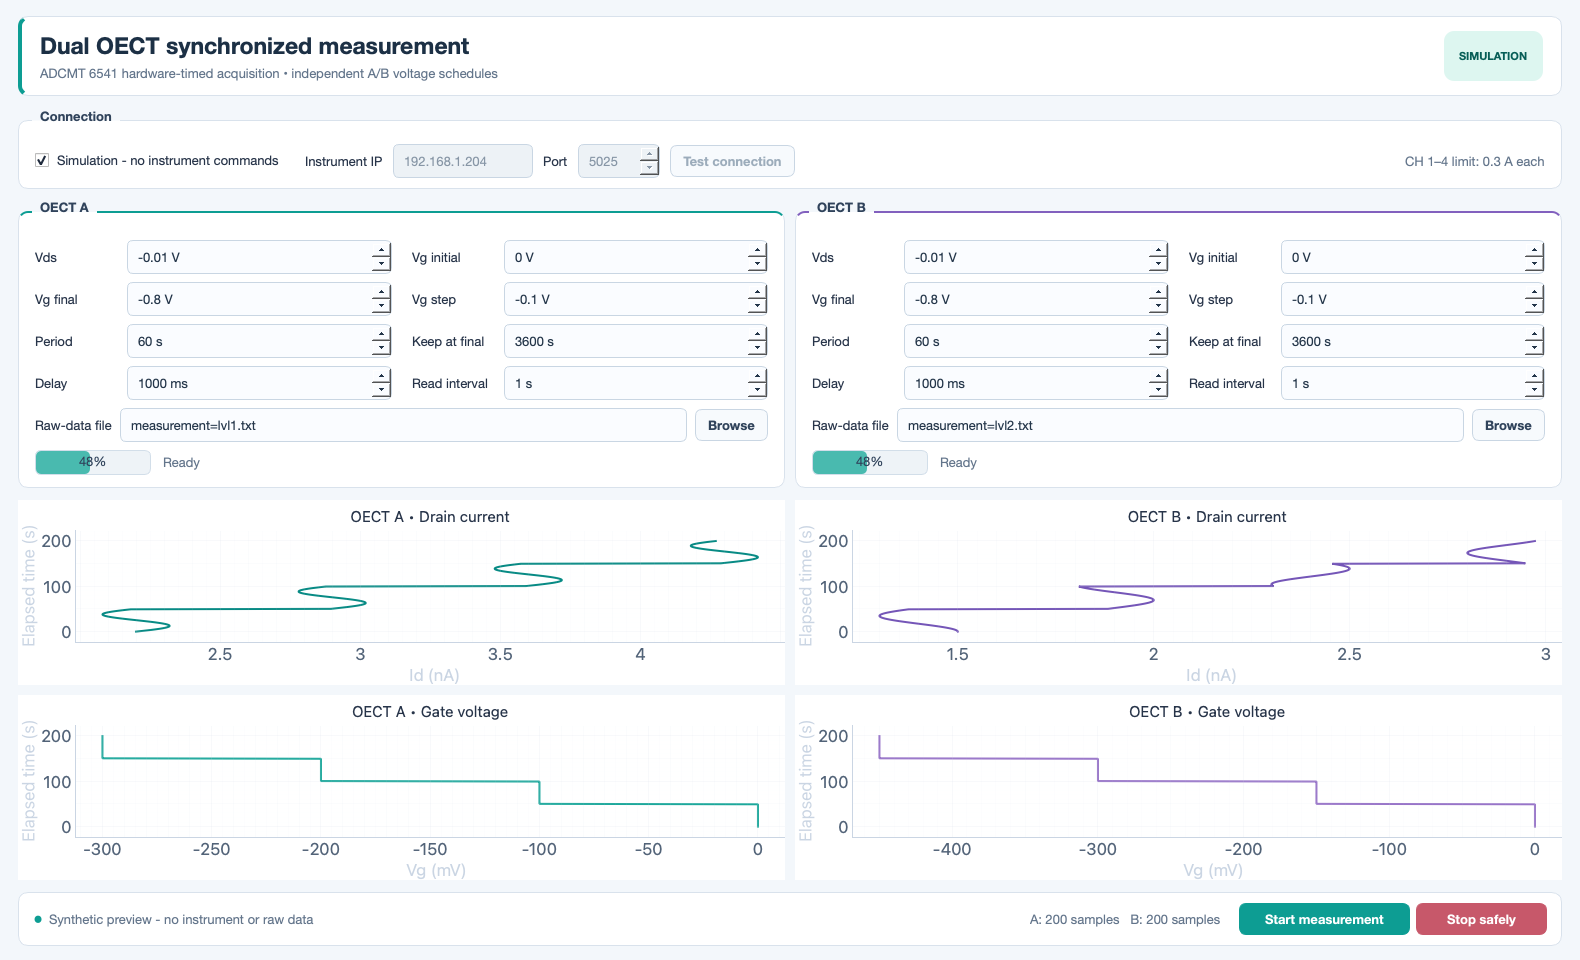
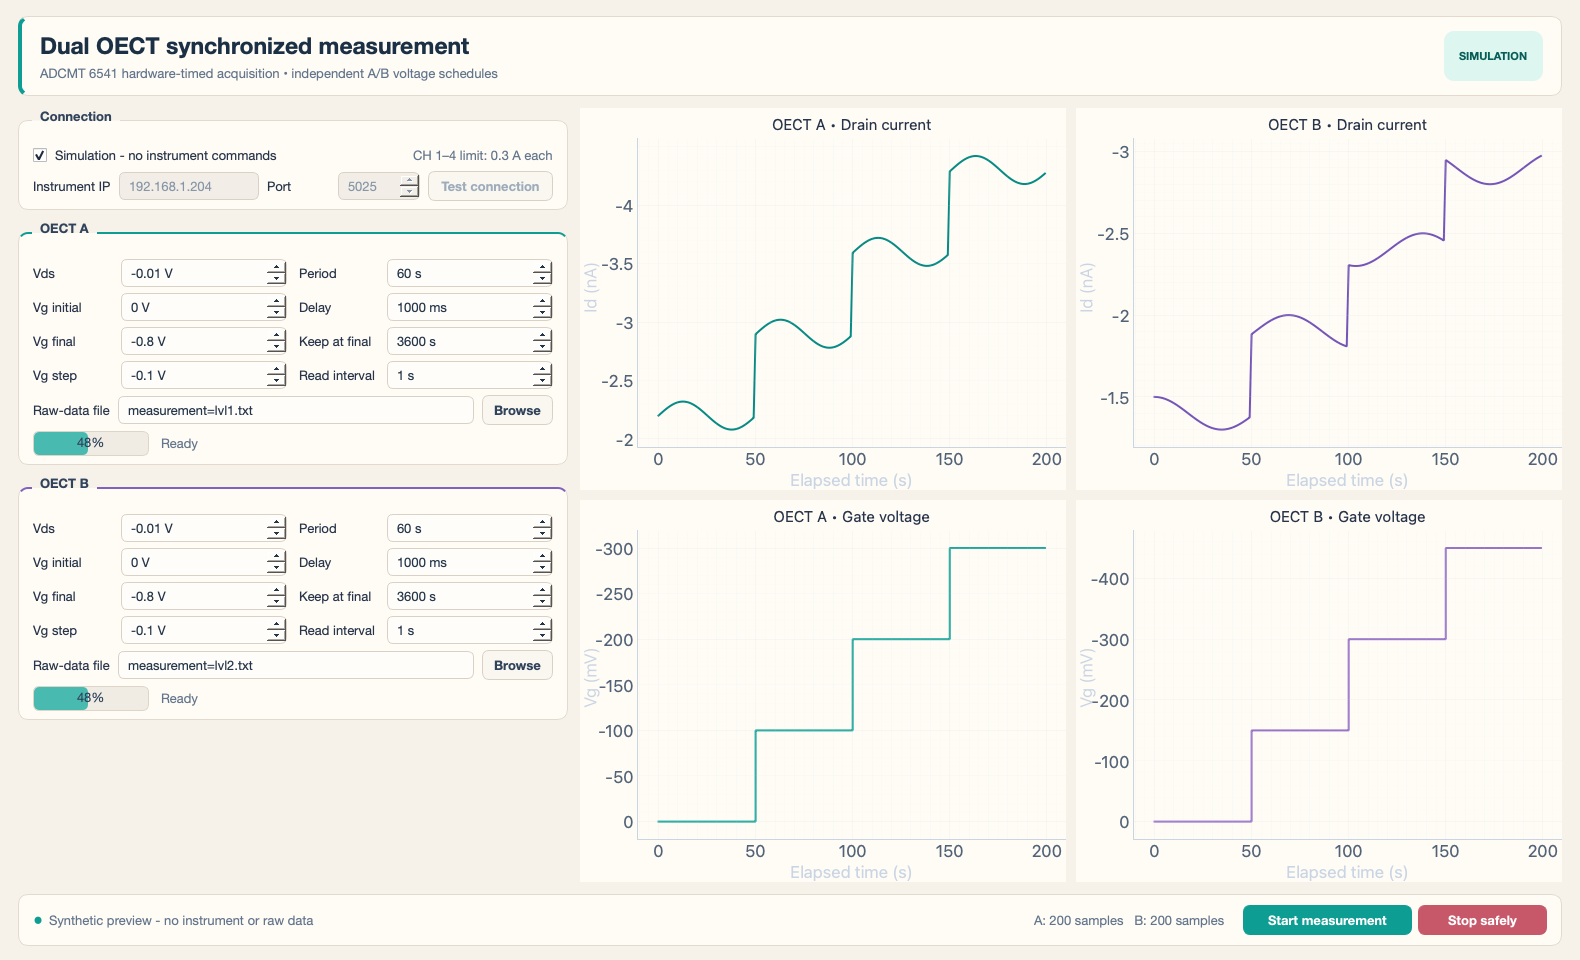
Refine dual-OECT controls and inverted plots

diff --git a/oect_dual_gui.py b/oect_dual_gui.py
@@ -600,9 +600,9 @@ class CellControls:
         self.group = QtWidgets.QGroupBox(f"OECT {name}")
         self.group.setProperty("accent", accent)
         grid = QtWidgets.QGridLayout(self.group)
-        grid.setContentsMargins(16, 20, 16, 12)
-        grid.setHorizontalSpacing(20)
-        grid.setVerticalSpacing(8)
+        grid.setContentsMargins(14, 18, 14, 8)
+        grid.setHorizontalSpacing(12)
+        grid.setVerticalSpacing(6)
         grid.setColumnStretch(0, 1)
         grid.setColumnStretch(1, 1)
 
@@ -616,10 +616,10 @@ class CellControls:
         self.interval = self._spin(0.1, 60.0, 1.0, 0.1, 3, " s")
 
         rows = (
-            (("Vds", self.vds), ("Vg initial", self.vg_initial)),
-            (("Vg final", self.vg_final), ("Vg step", self.vg_step)),
-            (("Period", self.hold), ("Keep at final", self.keep)),
-            (("Delay", self.delay_ms), ("Read interval", self.interval)),
+            (("Vds", self.vds), ("Period", self.hold)),
+            (("Vg initial", self.vg_initial), ("Delay", self.delay_ms)),
+            (("Vg final", self.vg_final), ("Keep at final", self.keep)),
+            (("Vg step", self.vg_step), ("Read interval", self.interval)),
         )
         for row, pairs in enumerate(rows):
             for column, (label, widget) in enumerate(pairs):
@@ -628,8 +628,8 @@ class CellControls:
                 field_layout.setContentsMargins(0, 0, 0, 0)
                 field_layout.setSpacing(8)
                 caption = QtWidgets.QLabel(label)
-                caption.setMinimumWidth(84)
-                widget.setMinimumWidth(100)
+                caption.setMinimumWidth(80)
+                widget.setMinimumWidth(90)
                 field_layout.addWidget(caption)
                 field_layout.addWidget(widget, 1)
                 grid.addWidget(field, row, column)
@@ -733,8 +733,16 @@ class MainWindow(QtWidgets.QMainWindow):
         outer.setSpacing(12)
         outer.addWidget(self._header())
 
-        outer.addWidget(self._control_panel())
-        outer.addWidget(self._plot_panel(), 1)
+        body = QtWidgets.QWidget()
+        body_layout = QtWidgets.QHBoxLayout(body)
+        body_layout.setContentsMargins(0, 0, 0, 0)
+        body_layout.setSpacing(12)
+        controls = self._control_panel()
+        controls.setMinimumWidth(550)
+        controls.setMaximumWidth(600)
+        body_layout.addWidget(controls)
+        body_layout.addWidget(self._plot_panel(), 1)
+        outer.addWidget(body, 1)
         outer.addWidget(self._footer())
         self._apply_style()
         self._simulation_changed(True)
@@ -766,9 +774,10 @@ class MainWindow(QtWidgets.QMainWindow):
         layout.setSpacing(10)
 
         connection = QtWidgets.QGroupBox("Connection")
-        row = QtWidgets.QHBoxLayout(connection)
-        row.setContentsMargins(16, 16, 16, 10)
-        row.setSpacing(10)
+        grid = QtWidgets.QGridLayout(connection)
+        grid.setContentsMargins(14, 18, 14, 8)
+        grid.setHorizontalSpacing(8)
+        grid.setVerticalSpacing(6)
         self.simulation = QtWidgets.QCheckBox("Simulation - no instrument commands")
         self.simulation.setChecked(True)
         self.simulation.toggled.connect(self._simulation_changed)
@@ -784,25 +793,21 @@ class MainWindow(QtWidgets.QMainWindow):
         compliance = QtWidgets.QLabel("CH 1–4 limit: 0.3 A each")
         compliance.setProperty("muted", True)
         compliance.setToolTip("Fixed current compliance on all four channels; confirm device safety before live runs")
-        row.addWidget(self.simulation)
-        row.addSpacing(10)
-        row.addWidget(QtWidgets.QLabel("Instrument IP"))
-        row.addWidget(self.host)
-        row.addWidget(QtWidgets.QLabel("Port"))
-        row.addWidget(self.port)
-        row.addWidget(self.test_button)
-        row.addStretch(1)
-        row.addWidget(compliance)
+        grid.addWidget(self.simulation, 0, 0, 1, 3)
+        grid.addWidget(compliance, 0, 3, 1, 3, QtCore.Qt.AlignRight)
+        grid.addWidget(QtWidgets.QLabel("Instrument IP"), 1, 0)
+        grid.addWidget(self.host, 1, 1)
+        grid.addWidget(QtWidgets.QLabel("Port"), 1, 2)
+        grid.addWidget(self.port, 1, 3)
+        grid.addWidget(self.test_button, 1, 4, 1, 2)
         layout.addWidget(connection)
 
         output_root = Path(__file__).resolve().parent
         self.controls_a = CellControls("A", "cyan", output_root / "measurement=lvl1.txt")
         self.controls_b = CellControls("B", "violet", output_root / "measurement=lvl2.txt")
-        cells = QtWidgets.QHBoxLayout()
-        cells.setSpacing(10)
-        cells.addWidget(self.controls_a.group, 1)
-        cells.addWidget(self.controls_b.group, 1)
-        layout.addLayout(cells)
+        layout.addWidget(self.controls_a.group)
+        layout.addWidget(self.controls_b.group)
+        layout.addStretch(1)
         return panel
 
     def _plot_panel(self) -> QtWidgets.QWidget:
@@ -818,24 +823,25 @@ class MainWindow(QtWidgets.QMainWindow):
             ("vg_a", "OECT A • Gate voltage", "Vg", "V", "#1CA89B"),
             ("vg_b", "OECT B • Gate voltage", "Vg", "V", "#9874C8"),
         )
-        for index, (key, title, xlabel, units, color) in enumerate(plot_specs):
+        for index, (key, title, ylabel, units, color) in enumerate(plot_specs):
             plot = pg.PlotWidget(
-                background="#FFFFFF",
+                background="#FFFCF6",
                 axisItems={
                     "left": CompactAxisItem(orientation="left"),
                     "bottom": CompactAxisItem(orientation="bottom"),
                 },
             )
             plot.setTitle(title, color="#273449", size="11pt")
-            plot.setLabel("bottom", xlabel, units=units, color="#526378")
-            plot.setLabel("left", "Elapsed time", units="s", color="#526378")
+            plot.setLabel("bottom", "Elapsed time", units="s", color="#526378")
+            plot.setLabel("left", ylabel, units=units, color="#526378")
+            plot.getViewBox().invertY(True)
             plot.showGrid(x=True, y=True, alpha=0.14)
             plot.getAxis("left").setTextPen("#526378")
             plot.getAxis("bottom").setTextPen("#526378")
             plot.getAxis("left").setPen("#CAD5E3")
             plot.getAxis("bottom").setPen("#CAD5E3")
-            # pyqtgraph downsamples by x; with current/voltage on x it can
-            # drop nearly every point when those values vary by nanoamps.
+            plot.setDownsampling(auto=True, mode="peak")
+            plot.setClipToView(True)
             curve = plot.plot(pen=pg.mkPen(color, width=2), connect="finite")
             self.plots[key] = plot
             self.curves[key] = curve
@@ -871,9 +877,9 @@ class MainWindow(QtWidgets.QMainWindow):
     def _apply_style(self) -> None:
         self.setStyleSheet(
             """
-            QMainWindow { background: #F3F7FB; }
+            QMainWindow { background: #F6F2EA; }
             QWidget { color: #273449; font-family: 'Helvetica Neue'; font-size: 13px; }
-            QFrame#headerCard, QFrame#footerCard, QGroupBox { background: #FFFFFF; border: 1px solid #D9E2EC; border-radius: 10px; }
+            QFrame#headerCard, QFrame#footerCard, QGroupBox { background: #FFFCF6; border: 1px solid #E2DACE; border-radius: 10px; }
             QFrame#headerCard { border-left: 4px solid #0D9D93; }
             QLabel#title { font-size: 23px; font-weight: 700; color: #1C3045; }
             QLabel[muted="true"] { color: #63758B; }
@@ -883,18 +889,18 @@ class MainWindow(QtWidgets.QMainWindow):
             QGroupBox::title { subcontrol-origin: margin; left: 14px; padding: 0 6px; color: #30435B; }
             QGroupBox[accent="cyan"] { border-top: 2px solid #0D9D93; }
             QGroupBox[accent="violet"] { border-top: 2px solid #8260BE; }
-            QLineEdit, QSpinBox, QDoubleSpinBox { background: #FAFCFF; border: 1px solid #C9D6E3; border-radius: 6px; padding: 5px 8px; color: #24364A; min-height: 22px; selection-background-color: #AFDAD6; }
+            QLineEdit, QSpinBox, QDoubleSpinBox { background: #FFFDF9; border: 1px solid #D9D1C5; border-radius: 6px; padding: 3px 7px; color: #24364A; min-height: 20px; selection-background-color: #AFDAD6; }
             QLineEdit:focus, QSpinBox:focus, QDoubleSpinBox:focus { border: 1px solid #0D9D93; }
-            QLineEdit:disabled, QSpinBox:disabled, QDoubleSpinBox:disabled { background: #EDF2F6; color: #8796A6; }
-            QPushButton { border: 1px solid #C8D5E1; border-radius: 7px; padding: 7px 12px; font-weight: 700; background: #EDF3F8; color: #30435B; }
-            QPushButton:hover { background: #DDE9F2; }
-            QPushButton:disabled { background: #EFF3F6; color: #9CACBB; }
+            QLineEdit:disabled, QSpinBox:disabled, QDoubleSpinBox:disabled { background: #F2EEE7; color: #8796A6; }
+            QPushButton { border: 1px solid #D9D1C5; border-radius: 7px; padding: 6px 11px; font-weight: 700; background: #F3EFE7; color: #30435B; }
+            QPushButton:hover { background: #EAE3D8; }
+            QPushButton:disabled { background: #F1EEE8; color: #9CACBB; }
             QPushButton#startButton { background: #0D9D93; border-color: #0D9D93; color: white; min-width: 145px; }
             QPushButton#startButton:hover { background: #0B827A; }
             QPushButton#stopButton { background: #C7586A; border-color: #C7586A; color: white; min-width: 105px; }
             QPushButton#stopButton:hover { background: #AC4557; }
-            QPushButton[secondary="true"] { background: #F7FAFD; border: 1px solid #C9D6E3; }
-            QProgressBar { background: #EEF3F7; border: 1px solid #D2DEE9; border-radius: 6px; text-align: center; color: #30435B; min-height: 16px; }
+            QPushButton[secondary="true"] { background: #FAF7F1; border: 1px solid #D9D1C5; }
+            QProgressBar { background: #F1ECE3; border: 1px solid #DDD5CA; border-radius: 6px; text-align: center; color: #30435B; min-height: 16px; }
             QProgressBar::chunk { background: #49BAAF; border-radius: 5px; }
             QCheckBox { spacing: 8px; }
             """
@@ -1037,11 +1043,11 @@ class MainWindow(QtWidgets.QMainWindow):
         data["id"].append(drain_i)
         data["vg"].append(gate_v)
         if cell == "A":
-            self.curves["id_a"].setData(data["id"], data["t"])
-            self.curves["vg_a"].setData(data["vg"], data["t"])
+            self.curves["id_a"].setData(data["t"], data["id"])
+            self.curves["vg_a"].setData(data["t"], data["vg"], stepMode="right")
         else:
-            self.curves["id_b"].setData(data["id"], data["t"])
-            self.curves["vg_b"].setData(data["vg"], data["t"])
+            self.curves["id_b"].setData(data["t"], data["id"])
+            self.curves["vg_b"].setData(data["t"], data["vg"], stepMode="right")
         self.summary_label.setText(
             f"A: {len(self.plot_data['A']['t'])} samples   "
             f"B: {len(self.plot_data['B']['t'])} samples"

diff --git a/test_gui_synthetic.py b/test_gui_synthetic.py
@@ -150,23 +150,46 @@ class GuiLayoutTests(unittest.TestCase):
         b = self.window.controls_b.group
         self.assertTrue(a.isVisible())
         self.assertTrue(b.isVisible())
-        self.assertEqual(a.y(), b.y())
-        self.assertGreater(self.window.plots["id_a"].height(), 100)
+        self.assertEqual(a.x(), b.x())
+        self.assertLess(a.y(), b.y())
+        plot = self.window.plots["id_a"]
+        self.assertGreater(plot.height(), 200)
+        self.assertLess(plot.width() / plot.height(), 1.8)
 
-    def test_time_is_vertical_and_measurements_are_horizontal(self) -> None:
+    def test_control_columns_follow_requested_order(self) -> None:
+        for controls in (self.window.controls_a, self.window.controls_b):
+            group = controls.group
+            left = (controls.vds, controls.vg_initial, controls.vg_final, controls.vg_step)
+            right = (controls.hold, controls.delay_ms, controls.keep, controls.interval)
+            left_positions = [widget.mapTo(group, widget.rect().topLeft()) for widget in left]
+            right_positions = [widget.mapTo(group, widget.rect().topLeft()) for widget in right]
+            self.assertEqual(len({point.x() for point in left_positions}), 1)
+            self.assertEqual(len({point.x() for point in right_positions}), 1)
+            self.assertLess(left_positions[0].x(), right_positions[0].x())
+            self.assertEqual(
+                [point.y() for point in left_positions],
+                [point.y() for point in right_positions],
+            )
+            self.assertTrue(all(
+                first.y() < second.y()
+                for first, second in zip(left_positions, left_positions[1:])
+            ))
+
+    def test_time_is_horizontal_and_negative_values_are_above(self) -> None:
         for key, quantity in (("id_a", "Id"), ("id_b", "Id"), ("vg_a", "Vg"), ("vg_b", "Vg")):
             plot = self.window.plots[key]
-            self.assertEqual(plot.getAxis("bottom").labelText, quantity)
-            self.assertEqual(plot.getAxis("left").labelText, "Elapsed time")
+            self.assertEqual(plot.getAxis("bottom").labelText, "Elapsed time")
+            self.assertEqual(plot.getAxis("left").labelText, quantity)
+            self.assertTrue(plot.getViewBox().state["yInverted"])
         self.assertEqual(
-            self.window.plots["id_a"].getAxis("bottom").tickStrings([2.5e-9, 3e-9], 1e9, 0.5),
+            self.window.plots["id_a"].getAxis("left").tickStrings([2.5e-9, 3e-9], 1e9, 0.5),
             ["2.5", "3"],
         )
-        self.window._sample("A", 1.25, 1e-10, -0.1, 2e-9, -0.01)
-        self.assertEqual(list(self.window.curves["id_a"].xData), [2e-9])
-        self.assertEqual(list(self.window.curves["id_a"].yData), [1.25])
-        self.assertEqual(list(self.window.curves["vg_a"].xData), [-0.1])
-        self.assertEqual(list(self.window.curves["vg_a"].yData), [1.25])
+        self.window._sample("A", 1.25, 1e-10, -0.1, -2e-9, -0.01)
+        self.assertEqual(list(self.window.curves["id_a"].xData), [1.25])
+        self.assertEqual(list(self.window.curves["id_a"].yData), [-2e-9])
+        self.assertEqual(list(self.window.curves["vg_a"].xData), [1.25])
+        self.assertEqual(list(self.window.curves["vg_a"].yData), [-0.1])
 
     def test_nanoampere_current_curve_keeps_all_points(self) -> None:
         for index in range(100):

diff --git a/README.md b/README.md
@@ -25,9 +25,9 @@ Double-click `launch_gui.command`, or run:
 /usr/bin/python3 oect_dual_gui.py
 ```
 
-![Light-theme GUI with synthetic sample traces](GUI_demo_preview.png)
+![Warm light-theme GUI with synthetic sample traces](GUI_demo_preview.png)
 
-The light-theme GUI starts in simulation mode so it cannot energize the instrument accidentally. OECT A and B have independent Vds, Vg initial/final/step, per-level hold, extra final keep, pre-measurement delay, output interval, and output filenames. Both compact control cards are visible side by side without scrolling. The four live plots show Id and Vg horizontally against elapsed time vertically for both cells. Numeric controls omit unnecessary trailing zeros; raw-data numeric formatting is unchanged.
+The warm, cream-colored GUI starts in simulation mode so it cannot energize the instrument accidentally. OECT A and B have independent Vds, Vg initial/final/step, per-level hold, extra final keep, pre-measurement delay, output interval, and output filenames. Both control cards stay visible in a left column without scrolling. Each card orders its left controls as Vds, Vg initial, Vg final, Vg step; its right controls as period, delay, keep at final, read interval. The four larger, nearly square live plots put elapsed time horizontally and Id or Vg vertically, with the vertical axis inverted so more-negative values appear higher. Numeric controls omit unnecessary trailing zeros; raw-data numeric formatting is unchanged.
 
 The current-limit controls are hidden. The GUI fixes drain and gate current limits on CH1–CH4 at **0.3 A each** and confirms that setting before a live run.
 
